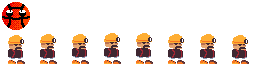
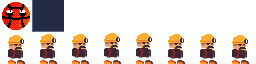
Added tilemap

Changed region(s): [[0.125, 0.0, 0.25, 0.5]]

diff --git a/site/public/js/main.js b/site/public/js/main.js
@@ -1596,6 +1596,18 @@ eval("/* WEBPACK VAR INJECTION */(function(global) {\r\nObject.defineProperty(ex
 
 /***/ }),
 
+/***/ "./site/build/client/Map.js":
+/*!**********************************!*\
+  !*** ./site/build/client/Map.js ***!
+  \**********************************/
+/*! no static exports found */
+/***/ (function(module, exports, __webpack_require__) {
+
+"use strict";
+eval("\nObject.defineProperty(exports, \"__esModule\", { value: true });\nexports.GameMap = void 0;\nconst CanvasHelper_1 = __webpack_require__(/*! ./util/CanvasHelper */ \"./site/build/client/util/CanvasHelper.js\");\n// Each tile is 64x64 pixels\nconst TILE_WIDTH = 32;\nconst TILE_HEIGHT = 32;\n// Map is 64x64 tiles\nconst MAP_WIDTH = 1000;\nconst MAP_HEIGHT = 1000;\nclass GameMap {\n    constructor(serviceLocator) {\n        this.mapWidth = MAP_WIDTH;\n        this.mapHeight = MAP_HEIGHT;\n        this.tiles = [];\n        for (let x = 0; x < this.mapWidth; x++) {\n            this.tiles[x] = [];\n            for (let y = 0; y < this.mapHeight; y++) {\n                this.tiles[x][y] = {\n                    image: \"tile\",\n                    collides: false\n                };\n            }\n        }\n    }\n    update(serviceLocator) {\n        // Only draw tiles within camera\n        const { x, y, width, height } = CanvasHelper_1.CanvasHelper.getCamera().bounds;\n        const PADDING = 8;\n        const startX = Math.floor(Math.max(x / TILE_WIDTH - PADDING / 2, 0));\n        const startY = Math.floor(Math.max(y / TILE_HEIGHT - PADDING / 2, 0));\n        const endWidth = Math.floor(Math.min(width / TILE_WIDTH + PADDING, this.mapWidth));\n        const endHeight = Math.floor(Math.min(height / TILE_HEIGHT + PADDING, this.mapHeight));\n        for (let x = startX; x < startX + endWidth; x++) {\n            for (let y = startY; y < startY + endHeight; y++) {\n                const tile = this.tiles[x][y];\n                CanvasHelper_1.CanvasHelper.drawSprite(serviceLocator, tile.image, x * TILE_WIDTH, y * TILE_HEIGHT, TILE_WIDTH, TILE_HEIGHT);\n            }\n        }\n    }\n    onAddedToWorld(serviceLocator) {\n    }\n    onRemovedFromWorld(serviceLocator) {\n    }\n    getTile(x, y) {\n    }\n}\nexports.GameMap = GameMap;\n//# sourceMappingURL=Map.js.map\n\n//# sourceURL=webpack:///./site/build/client/Map.js?");
+
+/***/ }),
+
 /***/ "./site/build/client/SiteContainer.js":
 /*!********************************************!*\
   !*** ./site/build/client/SiteContainer.js ***!

diff --git a/site/src/client/Map.ts b/site/src/client/Map.ts
@@ -1,0 +1,75 @@
+import { Entity } from "./engine/Entity";
+import { ServiceLocator } from "./services/ServiceLocator";
+import { CanvasHelper } from "./util/CanvasHelper";
+
+// Each tile is 64x64 pixels
+const TILE_WIDTH = 32;
+const TILE_HEIGHT = 32;
+
+// Map is 64x64 tiles
+const MAP_WIDTH = 1000;
+const MAP_HEIGHT = 1000;
+
+interface Tile {
+    image: string;
+    collides: boolean;
+}
+
+export class GameMap implements Entity {
+    private tiles: Tile[][];
+    private mapWidth: number = MAP_WIDTH;
+    private mapHeight: number = MAP_HEIGHT;
+
+    public constructor(serviceLocator: ServiceLocator) {
+        this.tiles = [];
+        for (let x = 0; x < this.mapWidth; x++) {
+            this.tiles[x] = [];
+            for (let y = 0; y < this.mapHeight; y++) {
+                this.tiles[x][y] = {
+                    image: "tile",
+                    collides: false
+                }
+            }
+        }
+    }
+
+    public update(serviceLocator: ServiceLocator) {
+
+        // Only draw tiles within camera
+        const { x, y, width, height } = CanvasHelper.getCamera().bounds;
+        const PADDING = 8;
+        const startX = Math.floor(Math.max(x / TILE_WIDTH - PADDING/2, 0));
+        const startY = Math.floor(Math.max(y / TILE_HEIGHT - PADDING/2, 0));
+
+        const endWidth = Math.floor(Math.min(width / TILE_WIDTH + PADDING, this.mapWidth));
+        const endHeight = Math.floor(Math.min(height / TILE_HEIGHT + PADDING, this.mapHeight));
+
+        for (let x = startX; x < startX + endWidth; x++) {
+            for (let y = startY; y < startY + endHeight; y++) {
+                const tile = this.tiles[x][y];
+                CanvasHelper.drawSprite(
+                    serviceLocator, 
+                    tile.image,
+                    x * TILE_WIDTH,
+                    y * TILE_HEIGHT,
+                    TILE_WIDTH,
+                    TILE_HEIGHT
+                );
+            }
+        }
+    }
+
+    public onAddedToWorld(serviceLocator: ServiceLocator) {
+
+    }
+
+    public onRemovedFromWorld(serviceLocator: ServiceLocator) {
+
+    }
+
+    public getTile(x: number, y: number) {
+
+    }
+    
+}
+

diff --git a/site/src/client/util/CanvasHelper.ts b/site/src/client/util/CanvasHelper.ts
@@ -1,7 +1,47 @@
+import { HEIGHT, WIDTH } from "../Config";
 import { Sprite } from "../resources/SpriteSheet";
 import { ServiceLocator } from "../services/ServiceLocator";
 
+interface Camera {
+    x: number;
+    y: number;
+    scale: number;
+    bounds: {
+        x: number;
+        y: number;
+        width: number;
+        height: number;
+    }
+}
+
 export class CanvasHelper {
+    private static camera_x: number = 0;
+    private static camera_y: number = 0;
+    private static scale: number = 1;
+
+    public static setCamera(x: number, y: number, scale: number) {
+        this.camera_x = x;
+        this.camera_y = y;
+        this.scale = scale;
+    }
+
+    public static getCamera(): Camera {
+        const w = WIDTH / this.scale;
+        const h = HEIGHT / this.scale;
+
+        return {
+            x: this.camera_x,
+            y: this.camera_y,
+            scale: this.scale,
+            bounds: 
+            {
+                x: this.camera_x - (w/2),
+                y: this.camera_y - (h/2),
+                width: w,
+                height: h
+            }
+        }
+    }
 
     public static drawImage(serviceLocator: ServiceLocator, sprite: Sprite, x: number, y: number, width: number, height: number) {
         const spriteSheet = serviceLocator.getResourceManager().getDefaultSpriteSheet();
@@ -9,9 +49,12 @@ export class CanvasHelper {
             spriteSheet.getImage(),
             sprite.pixelCoordinate.textureX,
             sprite.pixelCoordinate.textureY,
-            sprite.pixelCoordinate.textureWidth - 1,
-            sprite.pixelCoordinate.textureHeight - 1,
-            x, y, width, height
+            sprite.pixelCoordinate.textureWidth,
+            sprite.pixelCoordinate.textureHeight,
+            (x - this.camera_x) * this.scale + WIDTH / 2, 
+            (y - this.camera_y) * this.scale + HEIGHT / 2, 
+            (width * this.scale), 
+            (height * this.scale)
         );
     }
 

diff --git a/site/src/client/GameScript.ts b/site/src/client/GameScript.ts
@@ -2,6 +2,7 @@ import { FOV, ASPECT_RATIO, ZNEAR, ZFAR, WIDTH, HEIGHT } from "./Config";
 import { BallEntity } from "./engine/entities/BallEntity";
 import { MinerEntity } from "./engine/entities/MinerEntity";
 import { Game } from "./Game";
+import { GameMap } from "./Map";
 import { InputState } from "./services/input/InputService";
 import { ServiceLocator } from "./services/ServiceLocator";
 import { Camera } from "./types";
@@ -10,7 +11,7 @@ import { randomIntRange, randomSelection } from "./util/math";
 export class GameScript {
     private game: Game;
     private serviceLocator: ServiceLocator;
-    private camera: Camera;
+    private gameMap: GameMap;
 
     public constructor(game: Game) {
         this.game = game;
@@ -23,6 +24,10 @@ export class GameScript {
     public update() {}
 
     public newGame() {
+        // Create and add the map to the world
+        this.gameMap = new GameMap(this.serviceLocator);
+        this.serviceLocator.getWorld().addEntity(this.gameMap);
+
         for (let i = 0; i < 10; i++) {
             const x = randomIntRange(0, WIDTH);
             const y = randomIntRange(0, HEIGHT);
@@ -36,5 +41,9 @@ export class GameScript {
     public resumeGame() {
         this.serviceLocator.getInputService().setInputState(InputState.DEFAULT);
         this.game.setUpdateWorld(true);
+    }
+
+    public getMap() {
+        return this.gameMap;
     }
 }

diff --git a/site/src/client/services/input/DefaultControlScheme.ts b/site/src/client/services/input/DefaultControlScheme.ts
@@ -1,3 +1,4 @@
+import { CanvasHelper } from "../../util/CanvasHelper";
 import { ServiceLocator } from "../ServiceLocator";
 import { ControlScheme } from "./ControlScheme";
 
@@ -7,6 +8,29 @@ export class DefaultControlScheme implements ControlScheme {
     public poll(keysDown: { [key: string]: boolean }) {
         if (keysDown.Space) {
             console.log("Space is down");
+        }
+
+
+
+        // TODO remove
+        const camera = CanvasHelper.getCamera();
+        if (keysDown.KeyW) {
+            CanvasHelper.setCamera(camera.x, camera.y - 1, camera.scale);
+        }
+        if (keysDown.KeyS) {
+            CanvasHelper.setCamera(camera.x, camera.y + 1, camera.scale);
+        }
+        if (keysDown.KeyA) {
+            CanvasHelper.setCamera(camera.x - 1, camera.y, camera.scale);
+        }
+        if (keysDown.KeyD) {
+            CanvasHelper.setCamera(camera.x + 1, camera.y, camera.scale);
+        }
+        if (keysDown.KeyE) {
+            CanvasHelper.setCamera(camera.x, camera.y, camera.scale * 1.01);
+        }
+        if (keysDown.KeyQ) {
+            CanvasHelper.setCamera(camera.x, camera.y, camera.scale * 0.99);
         }
     }
 

diff --git a/TODO.md b/TODO.md
@@ -1,8 +1,8 @@
 
 * Map
-    * 2D Grid of tiles
-    * Tile can have image or be empty + collidable
-    * Only tiles in viewport rendered
+    * ~~2D Grid of tiles~~
+    * ~~Tile can have image or be empty + collidable~~
+    * ~~Only tiles in viewport rendered~~
 
 * Map Loader
     * load PNG data in res/graphics (map.png)
@@ -14,6 +14,7 @@
     * Has health
     * Has death image
     * Display health bar
+    * Hand rendering
 
 * Controllable Character
     * Move character with input service
@@ -72,4 +73,6 @@
         * Blood
     * Camera tween movement
 
+* Bugs
+    * Image has weird lines when drawing, add padding to CompileArt
 
